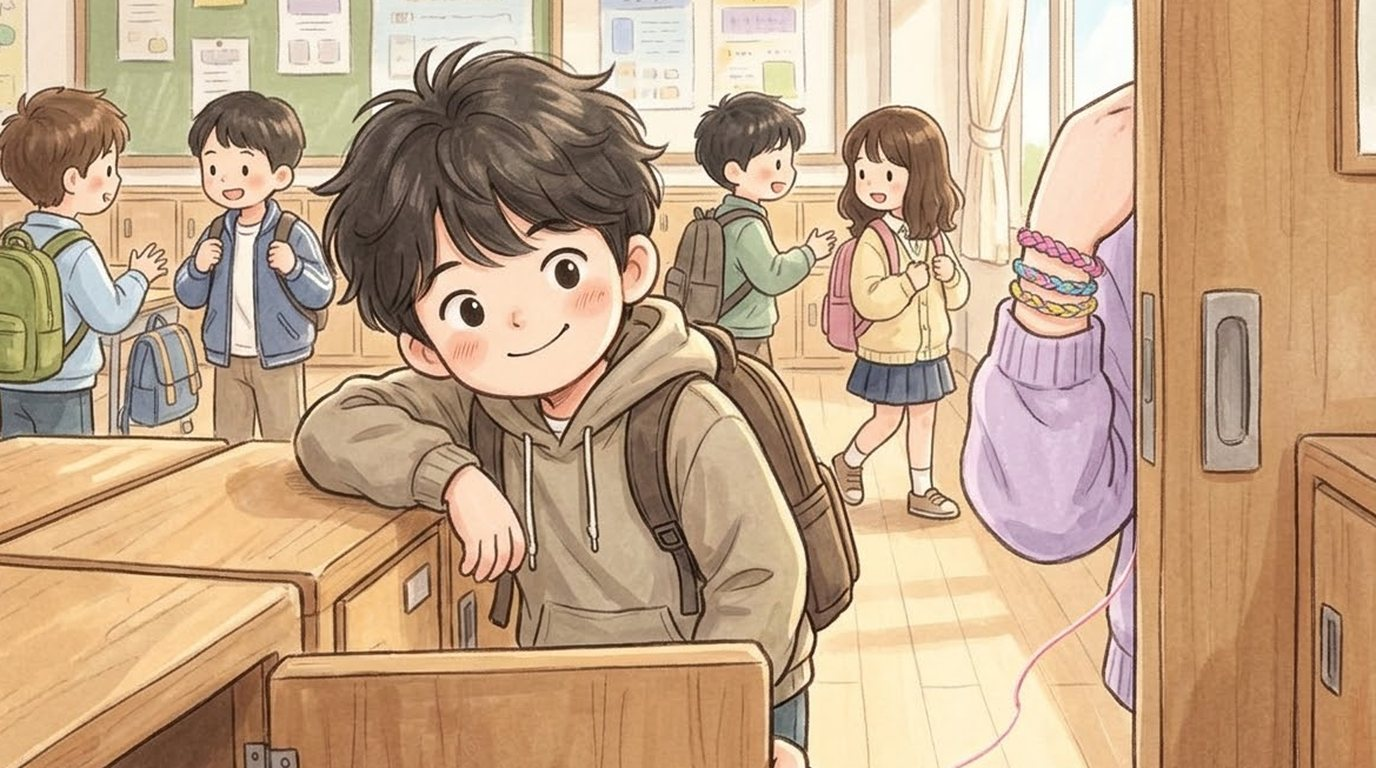
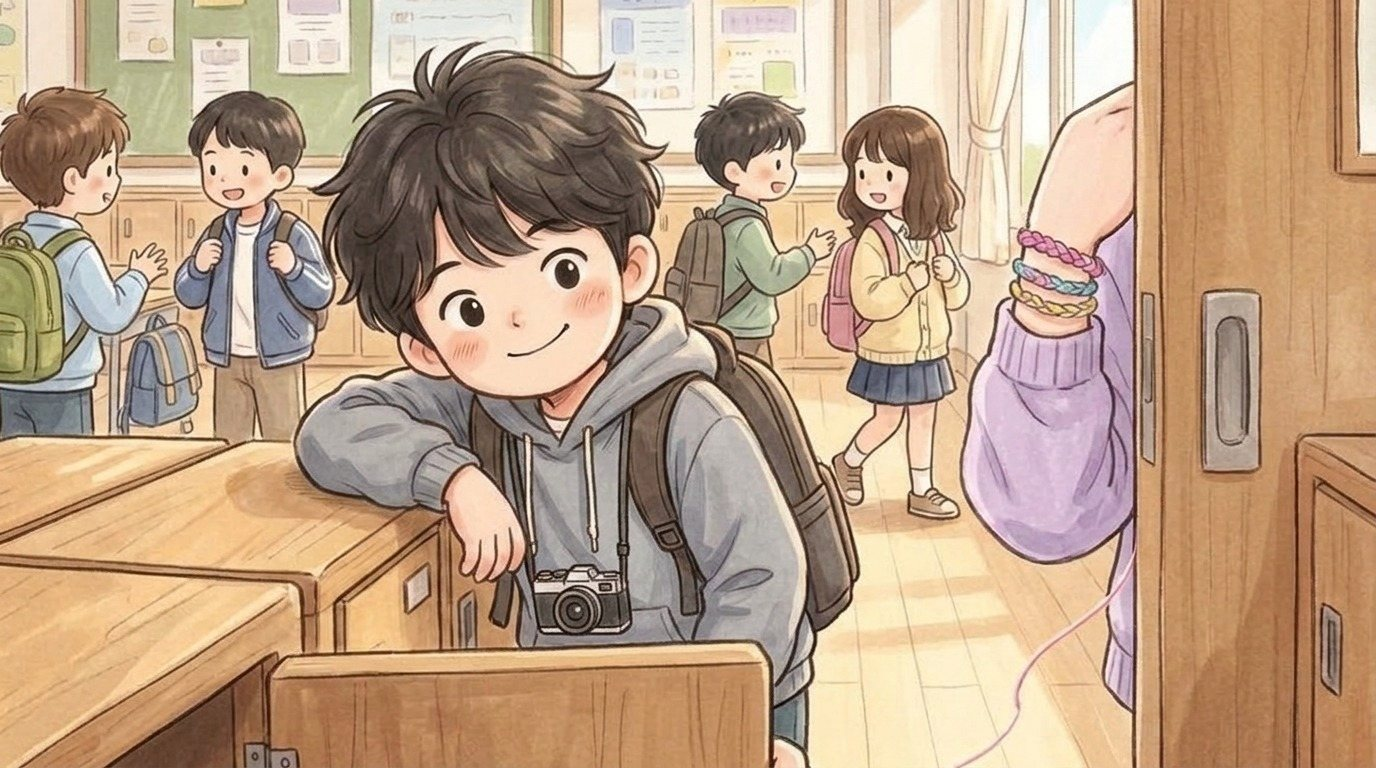
Hangyeol AI check days 2-7 (11/07): Jihoon in gray hoodie with camera in pic 05, homeroom teacher (not a man) and chalk in the hero's hand in 06c, the library drawing find bigger

diff --git a/index.html b/index.html
@@ -119,14 +119,14 @@ body,button{word-break:keep-all;overflow-wrap:break-word}
 <div id="fader"></div>
 <script>
 // same address, newest version: if the page this phone has kept is older than the one online, fetch the new one and reopen
-const BUILD='1107120755';
+const BUILD='1107120914';
 try{fetch(location.pathname,{cache:'no-store'}).then(r=>r.text()).then(t=>{const m=t.match(/const BUILD='(\d+)'/);if(m&&m[1]!==BUILD&&sessionStorage.getItem('upd')!==m[1]){sessionStorage.setItem('upd',m[1]);fetch(location.pathname,{cache:'reload'}).then(()=>location.reload())}}).catch(()=>{})}catch(e){}
 </script>
-<script src="i18n.js?v=1107120755"></script>
-<script src="i18n_prologue_v2.js?v=1107120755"></script>
-<script src="day2/i18n_engine.js?v=1107120755"></script>
-<script src="day2/data.js?v=1107120755"></script>
-<script src="day3/data.js?v=1107120755"></script>
+<script src="i18n.js?v=1107120914"></script>
+<script src="i18n_prologue_v2.js?v=1107120914"></script>
+<script src="day2/i18n_engine.js?v=1107120914"></script>
+<script src="day2/data.js?v=1107120914"></script>
+<script src="day3/data.js?v=1107120914"></script>
 <script>
 // ---------- data ----------
 const MW=1672,MH=941,KID=180;
@@ -549,34 +549,34 @@ function pickHero(){const m=document.getElementById('modal'),c=document.getEleme
  c.innerHTML=`<h2>${tr('전학생 반장되기')}</h2><p>${tr('한국말이 아직 서툰 전학생,<br>반장 선거에 나가다.')}</p><p style="margin-top:14px">${tr('누구로 할까요?')}</p>${(()=>{const s=loadSave();return s&&s.day>=2&&s.mode===UI+'-'+LANG?`<p><button class="big" id="cont">${tr('{n}일차부터 이어 하기').replace('{n}',s.day)}</button></p>`:''})()}<div class="pick heroes"><button data-h="hero_f"><img src="faces/hero_f_smile.jpg" alt="여자 주인공">${heroName(1)}</button><button data-h="hero_m"><img src="faces/hero_m_smile.jpg" alt="남자 주인공">${heroName(0)}</button></div>`;
  m.classList.add('on');{const cb=document.getElementById('cont');if(cb)cb.onclick=()=>{const s=loadSave();HERO=s.hero;Object.assign(HEART,s.heart||{});(s.found||[]).forEach(k=>FOUND.add(k));HEART_D1={...HEART};chime();(typeof contGame==='function'?contGame(s):startDay(Math.min(s.day,Object.keys(window.D3||{}).length?3:2)))}}c.querySelectorAll('.pick button').forEach(b=>b.onclick=()=>{HERO=b.dataset.h;m.classList.remove('on');chime();bgm('day');load('home_am');say([['nar','','이사 온 다음 날 아침. 아직 풀지 못한 상자들이 쌓여 있다.'],['think','sad','(오늘부터 새 학교야. 여기 말도 아직 서툰데…….)'],['think','smile','({m}한테 인사하고 학교 가야지.)']],morning)})}
 </script>
-<script src="day2/engine.js?v=1107120755"></script>
-<script src="day2/ep_minho.js?v=1107120755"></script>
-<script src="day2/meet.js?v=1107120755"></script>
-<script src="day2/ep_sua.js?v=1107120755"></script>
-<script src="day2/ep_hangyeol.js?v=1107120755"></script>
-<script src="day2/ep_siwoo.js?v=1107120755"></script>
-<script src="day2/ep_haram.js?v=1107120755"></script>
-<script src="day2/ep_jiho.js?v=1107120755"></script>
-<script src="day2/ep_hyeeun.js?v=1107120755"></script>
-<script src="day2/ep_haneul.js?v=1107120755"></script>
-<script src="day2/ep_junho.js?v=1107120755"></script>
-<script src="day2/ep_yuna.js?v=1107120755"></script>
-<script src="day2/ep_yena.js?v=1107120755"></script>
-<script src="day2/ep_haeun.js?v=1107120755"></script>
-<script src="day2/ep_youngmin.js?v=1107120755"></script>
-<script src="day2/ep_seah.js?v=1107120755"></script>
-<script src="day2/ep_jihoon.js?v=1107120755"></script>
-<script src="words_ja_ru.js?v=1107120755"></script>
-<script src="day2/mybag.js?v=1107120755"></script>
-<script src="day2/wordpics.js?v=1107120755"></script>
-<script src="day2/spots.js?v=1107120755"></script>
-<script src="day2/textfit.js?v=1107120755"></script>
-<script src="day2/tester.js?v=1107120755"></script>
-<script src="day2/ux.js?v=1107120755"></script>
-<script src="day2/tapword.js?v=1107120755"></script>
-<script src="day2/review.js?v=1107120755"></script>
-<script src="day2/ep_ending.js?v=1107120755"></script>
-<script src="day2/ending.js?v=1107120755"></script>
+<script src="day2/engine.js?v=1107120914"></script>
+<script src="day2/ep_minho.js?v=1107120914"></script>
+<script src="day2/meet.js?v=1107120914"></script>
+<script src="day2/ep_sua.js?v=1107120914"></script>
+<script src="day2/ep_hangyeol.js?v=1107120914"></script>
+<script src="day2/ep_siwoo.js?v=1107120914"></script>
+<script src="day2/ep_haram.js?v=1107120914"></script>
+<script src="day2/ep_jiho.js?v=1107120914"></script>
+<script src="day2/ep_hyeeun.js?v=1107120914"></script>
+<script src="day2/ep_haneul.js?v=1107120914"></script>
+<script src="day2/ep_junho.js?v=1107120914"></script>
+<script src="day2/ep_yuna.js?v=1107120914"></script>
+<script src="day2/ep_yena.js?v=1107120914"></script>
+<script src="day2/ep_haeun.js?v=1107120914"></script>
+<script src="day2/ep_youngmin.js?v=1107120914"></script>
+<script src="day2/ep_seah.js?v=1107120914"></script>
+<script src="day2/ep_jihoon.js?v=1107120914"></script>
+<script src="words_ja_ru.js?v=1107120914"></script>
+<script src="day2/mybag.js?v=1107120914"></script>
+<script src="day2/wordpics.js?v=1107120914"></script>
+<script src="day2/spots.js?v=1107120914"></script>
+<script src="day2/textfit.js?v=1107120914"></script>
+<script src="day2/tester.js?v=1107120914"></script>
+<script src="day2/ux.js?v=1107120914"></script>
+<script src="day2/tapword.js?v=1107120914"></script>
+<script src="day2/review.js?v=1107120914"></script>
+<script src="day2/ep_ending.js?v=1107120914"></script>
+<script src="day2/ending.js?v=1107120914"></script>
 <script>
 // the goal shows big for a few seconds, then folds into a small pill (tap it to open it again)
 {const g=document.getElementById('goal');let t=null;const big=()=>{g.classList.remove('mini');clearTimeout(t);t=setTimeout(()=>g.classList.add('mini'),4000)};

diff --git a/day2/ep_hangyeol.js b/day2/ep_hangyeol.js
@@ -113,7 +113,7 @@ EP.hangyeol=[
 
 // ■ Day 4 — 결이 (3)
 {title:'결이',scene:'hangyeol_03',place:'library',at:[890,490],flag:{H04_name:{A:1,D:1}},
- things:{library:[['picture',935,410,50]]},
+ things:{library:[['picture',935,410,72]]},
  pre:[
   {pic:'hangyeol_03'},
   ['nar','','점심시간. 도서관 구석에서 한결이가 혼자 뭔가를 그리고 있었다. 나는 한결이 맞은편에 앉았다.'],
